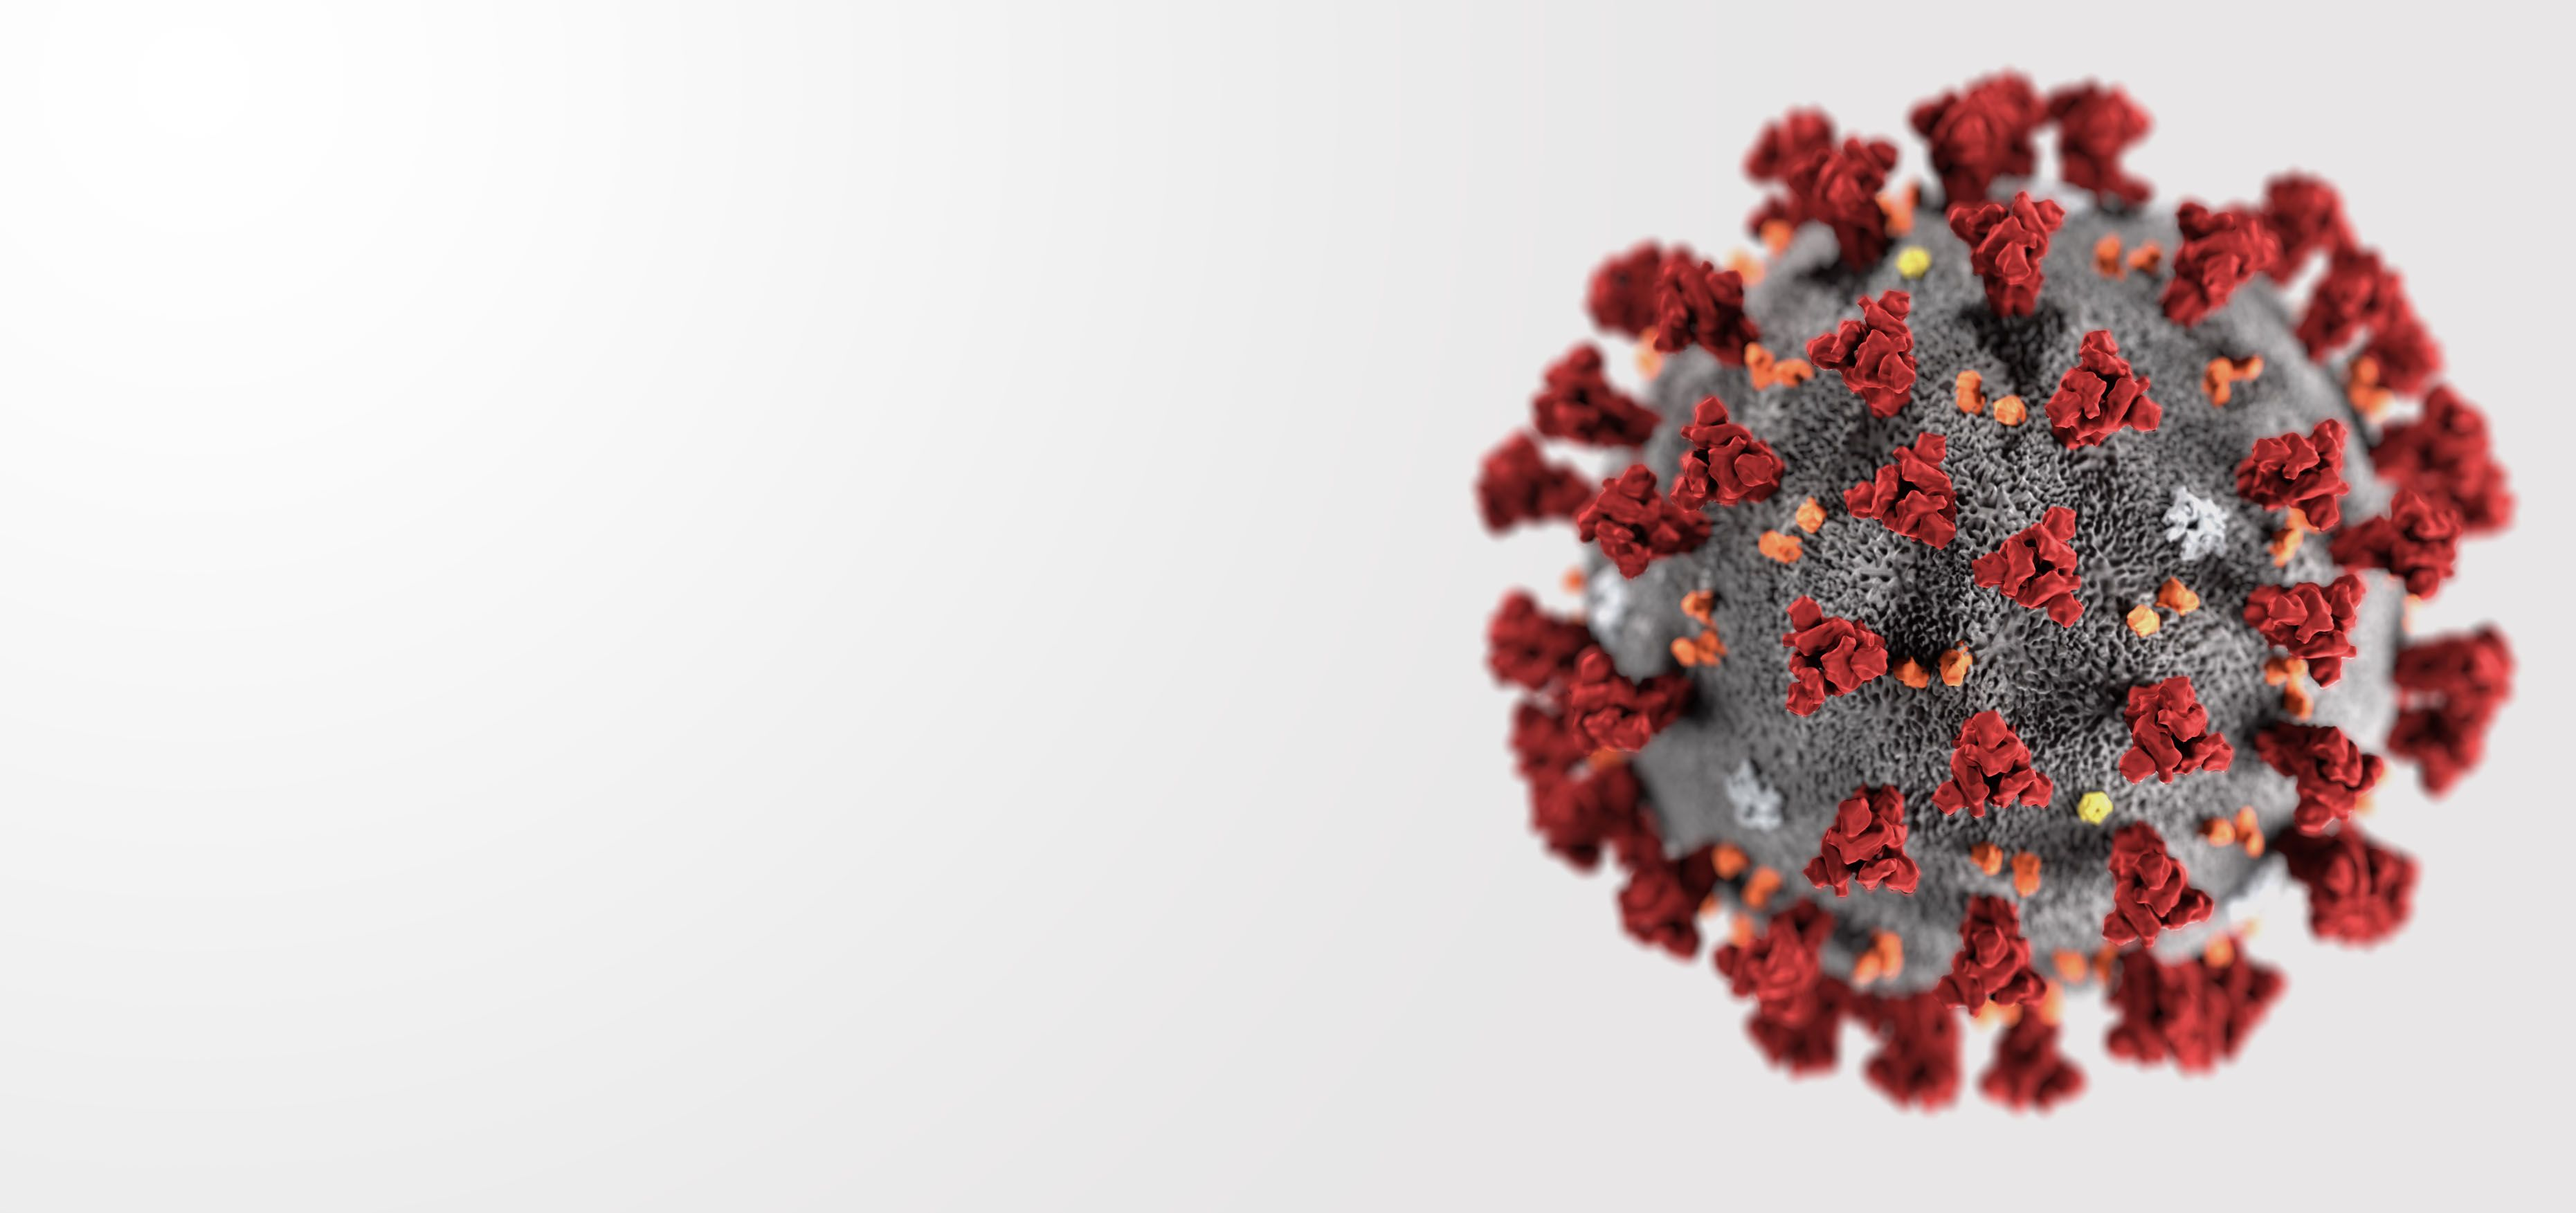
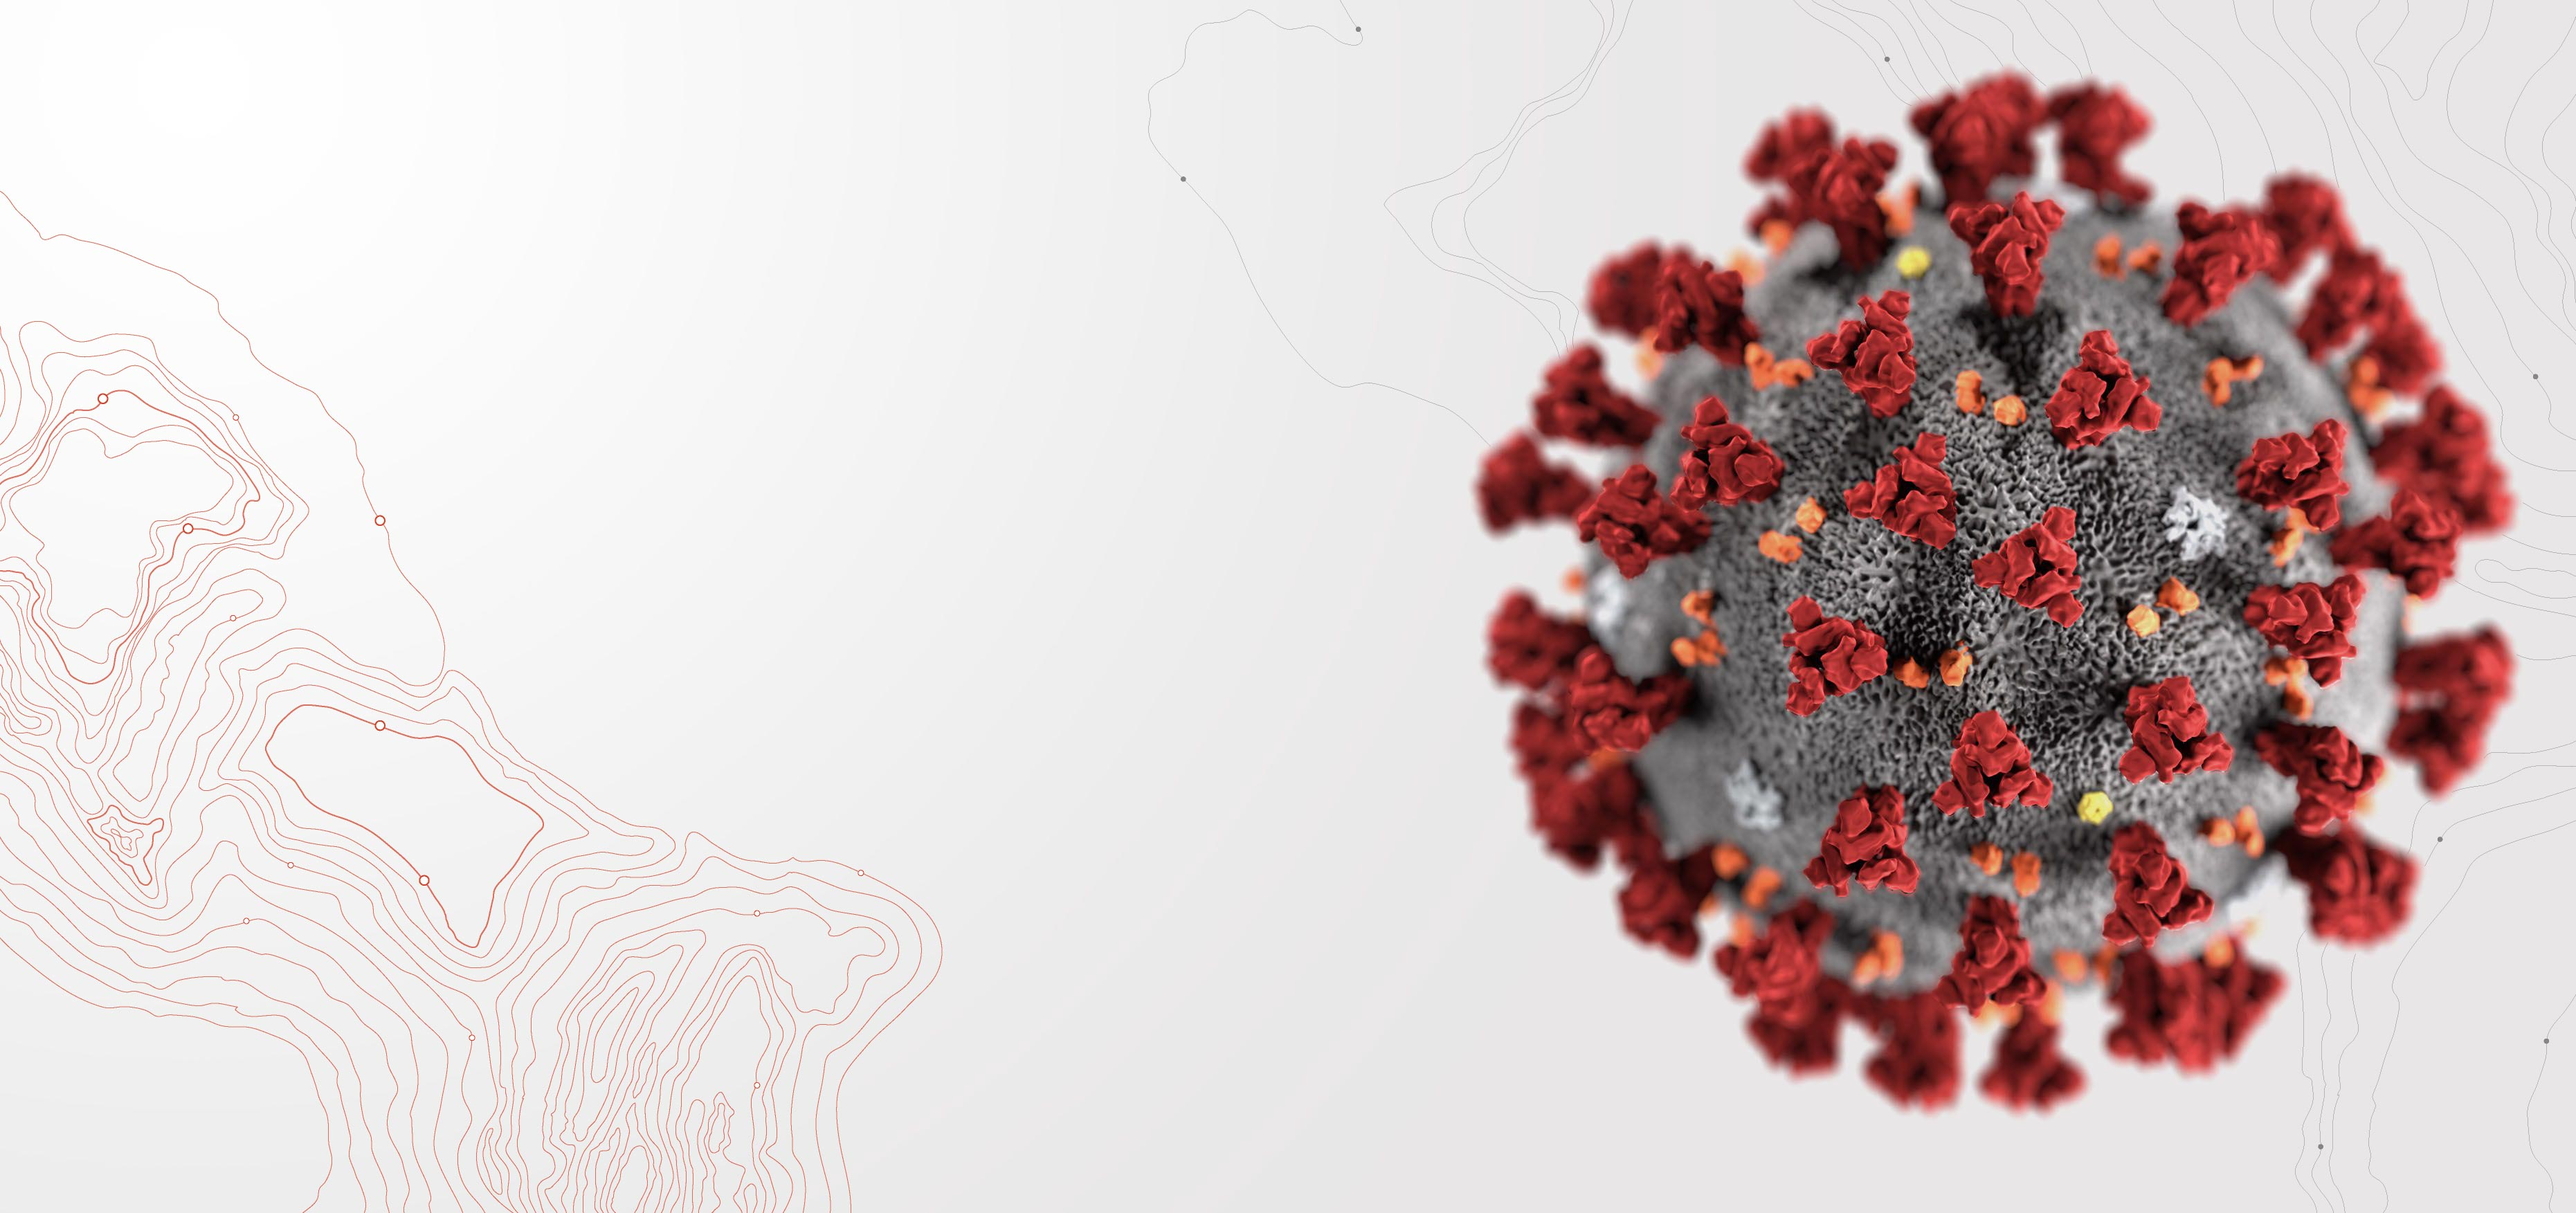
Updated covid hero image
Added data privacy and security section

diff --git a/libs/geoservices/covid/src/lib/pages/landing/landing.component.html b/libs/geoservices/covid/src/lib/pages/landing/landing.component.html
@@ -2,7 +2,7 @@
   <div class="corona-bg"></div>
   <div class="container12">
     <div class="column9">
-      <h1>Aiding in the Fight Against COVID-19</h1>
+      <h1>Texas A&amp;M University &mdash; Aiding in the Fight Against COVID-19</h1>
       <h4 class="column6 alpha omega">Free Geocoding For The Public Health Community</h4>
     </div>
   </div>
@@ -11,18 +11,18 @@
 <section class="content-fill-pad" style="background: white;">
   <div class="container12 flex flex-column align-center">
     <div class="column8 flex flex-column text-content text-content--center">
-      <p>Texas A&amp;M Geoservices is fully prepared to continue supporting service operations during during the coronavirus COVID-19 disease pandemic. Furthermore, the Texas A&amp;M University (TAMU) GeoInnovation Service Center has been authorized by TAMU to provide assistance to the national and international public health communities by providing free and unlimited access to our geocoding platform for COVID-19 public health-related surveillance, treatment, and control in the United States.</p>
+      <p>Texas A&amp;M Geoservices is fully prepared to continue supporting service operations during during the coronavirus COVID-19 disease pandemic. In addition, the Texas A&amp;M University (TAMU) GeoInnovation Service Center has been authorized by TAMU to provide assistance to the national and international public health communities by providing free and unlimited access to our geocoding platform for COVID-19 public health-related surveillance, treatment, and control in the United States.</p>
     </div>
   </div>
 </section>
 
 <section class="content-fill-pad">
   <div class="container12 flex flex-row-reverse justify-around">
-    <div class="column5 flex flex-column justify-center">
-      <h2>Why is Geocoding Important in the Fight Against the COVID-19 Pandemic?</h2>
-      <p>The distribution of COVID-19 cases in the United States contains a geographic component. Accurate geocoding is a valuable resource used to convert human-retable addresses into latitude and longitude pair values that can be further be used for geo-spatial analysis.</p>
+    <div class="column6 flex flex-column justify-center">
+      <h2>The Importance of Geocoding in the Fight Against the COVID-19 Pandemic</h2>
+      <p>The distribution of COVID-19 cases in the United States can be described geographically. Accurate geocoding is a valuable resource used to convert human-retable addresses into latitude and longitude pair values that can further be used for geo-spatial analysis.</p>
 
-      <p>Geocoding services can be expensive, but Texas A&amp;M is eager to provide assistance to the public health community with the resources needed to support the ongoing efforts against the COVID-19 pandemic.</p>
+      <p>Geocoding services can be expensive, however Texas A&amp;M is eager to provide assistance to the public health community with the resources needed to support the ongoing efforts against the COVID-19 pandemic.</p>
     </div>
 
     <div class="column6">
@@ -31,7 +31,7 @@
           <div class="service-example">
             <img src="assets/img/graphics/undraw_best_place_r685.svg" alt="" />
             <p>Funded by the National Cancer Institute (NCI), the North American Association of Central Cancer Registries (NACCR) processes patient records with Texas A&amp;M Geoservices to ensure data accuracy and consistency.</p>
-          </div>
+          </div>  
         </tamu-gisc-tab>
         <tamu-gisc-tab label="Private">
           <div class="service-example">
@@ -51,7 +51,7 @@
   <div class="container12 flex justify-center">
     <div class="column8 text-content text-content--center">
       <h2>Application Process</h2>
-      <h4>Request Access for Free Geocoding</h4>
+      <h4>Request Access To Free Geocoding</h4>
 
       <p>If you are a public health official, academic researcher or student, or employee of a for-profit, non-profit, or government organization working on COVID-19 tracking, prevention, control, surveillance, or other efforts, you may request access to free and unlimited geocoding resources from Texas A&amp;M University.</p>
 
@@ -89,7 +89,7 @@
   </div>
 </section>
 
-<section style="background: white;" class="content-fill-pad">
+<section class="content-fill-pad">
   <div class="container12 flex flex flex-column align-center">
     <div class="column12 flex flex-column align-center section-header">
       <h2>Data Privacy &amp; Security</h2>
@@ -100,9 +100,9 @@
       <div class="bullet-points">
         <p class="bullet"><span class="material-icons">check_circle</span> The TAMU Geocoding Platform is secured, audited, and capable of handling Protected Health Information (PHI) under HIPAA/HITECH regulations.</p>
 
-        <p class="bullet"><span class="material-icons">check_circle</span>TAMU can process Business Associate Agreements (BAA's)* for those needing documentation of HIPAA/HITECH compliance.</p>
+        <p class="bullet"><span class="material-icons">check_circle</span>TAMU can process Business Associate Agreements (BAA's) for those needing documentation of HIPAA/HITECH compliance.*</p>
 
-        <p class="bullet"><span class="material-icons">check_circle</span>TAMU can participate in (and/or be added to) Institutional Review Board (IRB) applications from other institutions**.</p>
+        <p class="bullet"><span class="material-icons">check_circle</span>TAMU can participate in (and/or be added to) Institutional Review Board (IRB) applications from other institutions.**</p>
       </div>
 
       <div>
@@ -117,14 +117,16 @@
   </div>
 </section>
 
-<section class="content-fill-pad">
+<section class="content-fill-pad" style="background: #ffffff;">
   <div class="container12">
     <div class="column12 flex flex-column align-center section-header">
-      <h2>Get Free Geocoding For COVID-19 Analysis</h2>
+      <h2>Request Free Geocoding Access</h2>
     </div>
 
-    <div class="column12 flex flex-row justify-center">
-      <a href="https://docs.google.com/forms/d/e/1FAIpQLSeRZOuy1BWP9_uk1JK8XjM-YwyJk0WboR_N42qAK12nCYME6w/viewform" target="_blank" class="button">Request Free Geocoding</a>
+    <div class="column12 flex flex-column justify-center align-center">
+      <a href="https://docs.google.com/forms/d/e/1FAIpQLSeRZOuy1BWP9_uk1JK8XjM-YwyJk0WboR_N42qAK12nCYME6w/viewform" target="_blank" class="button">Apply</a>
+
+      <p>Already approved? Check out the <a [routerLink]="['/api']">documentation</a> to learn how to use our geocoding service.</p>
     </div>
   </div>
 </section>

diff --git a/libs/geoservices/core/ngx/src/lib/components/header-covid/header-covid.component.html b/libs/geoservices/core/ngx/src/lib/components/header-covid/header-covid.component.html
@@ -4,6 +4,9 @@
 
     <div class="menu">
       <ul>
+        <li class="dropdown">
+          <a [routerLink]="['../api']" routerLinkActive="router-link-active">Documentation</a>
+        </li>
         <!-- <li class="dropdown">
           <a [routerLink]="['services']" routerLinkActive="router-link-active" class="dropdown__link">Services <span class="material-icons">keyboard_arrow_down</span></a>
           <ul class="dropdown__menu">
@@ -19,7 +22,7 @@
             </li>
           </ul>
         </li> -->
-        
+
         <!-- <li>
           <a href="">News</a>
         </li>

diff --git a/libs/geoservices/covid/src/lib/pages/landing/landing.component.scss b/libs/geoservices/covid/src/lib/pages/landing/landing.component.scss
@@ -48,7 +48,7 @@
 
   .fine-print {
     color: #757575;
-    font-size: 0.85rem;
+    font-size: 0.75rem;
     font-style: italic;
     margin-top: 2rem;
 

diff --git a/libs/geoservices/covid/src/lib/geoservices-covid.component.html b/libs/geoservices/covid/src/lib/geoservices-covid.component.html
@@ -48,3 +48,4 @@
 
 <!-- Persistent footer -->
 <tamu-gisc-footer></tamu-gisc-footer>
+
